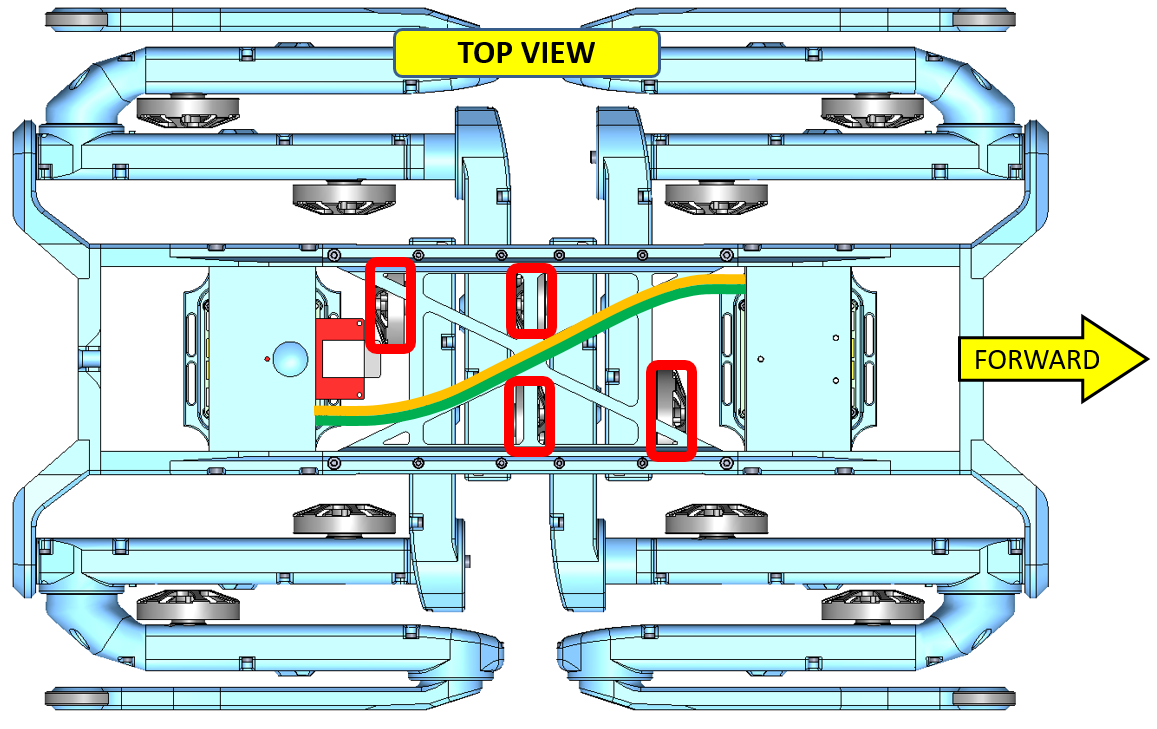
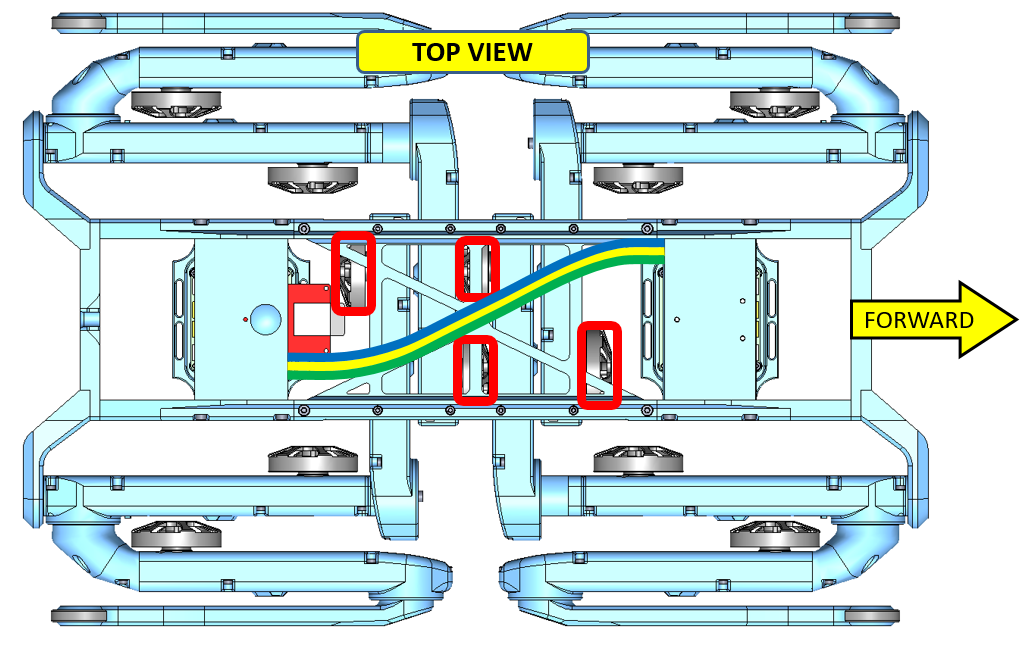
Updating documentation - 12dof robot

diff --git a/mechanics/quadruped_robot_12dof_v1/details/details_electronics_quadruped_12dof.md b/mechanics/quadruped_robot_12dof_v1/details/details_electronics_quadruped_12dof.md
@@ -1,12 +1,11 @@
 # Details Electronics Quadruped Robot 12dof v1
-<img src="../images/electronics_overview_1.jpg" width="500"><br>*12dof robot - electronic component overview - weight 264g*  
+<img src="../images/electronics_overview_1.jpg" width="500"><br>*Electronic component overview 12dof robot- weight 264g*  
 
 ## Description
 * electronics for 12 degree of freedom robot
-* motor driver stack front
-* motor driver stack back
-* master board
-* inertia measurement unit
+* provides current control for 12 brushless motors at 10kHz
+* provides 1kHz control loop to external pc
+* inertia measurement unit data at 1kHz
 
 ### Micro Driver Stack Front
 <img src="../images/micro_driver_stack_front.jpg" width="400"><br>*Micro driver stack front fully wired - weight: 94g*  
@@ -14,7 +13,7 @@
 | Description | Quantity | Wire Length | Comments |  
 | --- | --- | --- | --- |   
 |Motor Phase Wires |18|8cm||
-|Power Supply Wires|3|?cm||
+|Power Supply Wires|3|25cm||
 
 ---
 ### Micro Driver Stack Back
@@ -23,8 +22,8 @@
 | Description | Quantity | Wire Length | Comments |  
 | --- | --- | --- | --- |   
 |Motor Phase Wires |18|8cm||
-|Power Supply Wires|3|?cm||
-|Master Board Supply Wire|1|?cm||
+|Power Supply Wires|3|15cm||
+|Master Board Supply Wire|1|12cm||
 
 ---
 ### Master Board
@@ -38,7 +37,7 @@
 |SPI wires micro driver stack back|3|14cm|3-AA / 4-HL / 5-HR|
 
 ---
-### Interita Measurement Unit
+### Inerita Measurement Unit
 <img src="../images/imu.jpg" width="400"><br>*IMU with wire and mounting plate - weight: 30g*  
 
 | Description | Quantity | Wire Length | Comments |  
@@ -46,7 +45,6 @@
 |IMU wire |1|35cm||
 
 ---
-
 ### Hip AA Actuator Modules
 <img src="../images/hip_aa_actuator_modules.jpg" width="400"><br>*Hip AA Actuator Modules - weight: 149g each*  
 
@@ -90,22 +88,34 @@
 |Hind Left Knee Encoder Wire |1|20cm|HLK|
 
 ## Wire Routing
-
-<img src="wire_routing_bottom.jpg" width="500"><br>*Bottom view - all the motor module wires are routet on the bottom of the robot. Details below.*
+<img src="wire_routing_bottom.jpg" width="500"><br>*Bottom view - all the actuator module wires are routet on the bottom of the robot. Details below.*
 
 <img src="wire_routing_top.jpg" width="500"><br>*Top view - the power, imu and spi wires are routed on the top of the robot. Details below*
 
 ### Wire Routing Hip AA Modules
-<img src="wire_routing_hip_aa.png" width="500"><br>*Keep the wires away from the motor rotors.<br> The rotors are marked with red boxes in the picture above.*  
+<img src="wire_routing_hip_aa.png" width="500"><br>*Each line represents 3 motor phase wires and the 5 pole encoder wire.<br> Keep the wires away from the motor rotors (red boxes in the picture above).*
 
 ### Wire Routing Hip FE Modules
-<img src="wire_routing_hip_fe.png" width="500"><br>*Keep the wires away from the motor rotors.<br> The rotors are marked with red boxes in the picture above.*  
+<img src="wire_routing_hip_fe.png" width="500"><br>*Each line represents 3 motor phase wires and the 5 pole encoder wire.<br> Keep the wires away from the motor rotors (red boxes in the picture above).*
 
 ### Wire Routing Upper Leg Modules
-<img src="wire_routing_upper_leg.png" width="500"><br>*Keep the wires away from the motor rotors.<br> The rotors are marked with red boxes in the picture above.*  
+<img src="wire_routing_upper_leg.png" width="500"><br>*Each line represents 3 motor phase wires and the 5 pole encoder wire.<br>Keep the wires away from the motor rotors (red boxes in the picture above).*
 
 ### Wire Routing Power, SPI and IMU
-<img src="wire_routing_power_spi.png" width="500"><br>*Keep the wires away from the motor rotors.<br> The rotors are marked with red boxes in the picture above.*
+<img src="wire_routing_power_spi.png" width="500"><br>*The lines represent 3 spi wires, 3 power wires and the imu wire.<br>Keep the wires away from the motor rotors (red boxes in the picture above).*
+
+### Wire Routing Top
+<img src="../images/quadruped_robot_top_1.jpg" width="500"><br>*Quadruped Robot Top View*
+
+### Wire Routing Bottom
+<img src="../images/quadruped_robot_bottom_1.jpg" width="500"><br>*Quadruped Robot Bottom View*
+
+### Robot Connection Cable
+<img src="../images/connection_wire_1.jpg" width="400"><br>*External wire for power supply and ethernet communication.*
+
+<img src="../images/connection_wire_2.jpg" width="400"><br>*External wire robot side.*
+
+<img src="../images/connection_wire_3.jpg" width="400"><br>*External wire pc and power supply side.*
 
 ## View the biped cad model in your web browser
 <br>

diff --git a/mechanics/quadruped_robot_12dof_v1/README.md b/mechanics/quadruped_robot_12dof_v1/README.md
@@ -8,6 +8,7 @@
 
 ## Description
 * 12dof - 12 degree of freedom robot
+* current control at 10kHz / communication with control pc at 1kHz
 * dimensions: 45cm x 32cm x 6cm
 * weight: 2,5kg
 * consisting of 4 identical leg modules - details here -> [3DOF Leg](../leg_3dof_v1)
@@ -20,10 +21,10 @@
 
 ## Pictures
 <img src="images/solo_12_mechanics_1.jpg" width="400"><br>*12dof quadruped without electronics*<br>  
-<img src="images/solo12_1.jpg" width="400"><br>*12dof quadruped with electronics*<br>  
-<img src="images/solo12_2.jpg" width="400"><br>*12dof quadruped top view*<br>
-<img src="images/solo12_4.jpg" width="400"><br>*12dof quadruped front view*<br>  
-<img src="images/solo12_3.jpg" width="400"><br>*12dof quadruped - legs folded for transport*<br>  
+<img src="images/quadruped_robot_iso_1.jpg" width="400"><br>*12dof quadruped with electronics and vicon top plate*<br>  
+<img src="images/quadruped_robot_top_1.jpg" width="400"><br>*12dof quadruped top view*<br>
+<img src="images/quadruped_robot_front_1.jpg" width="400"><br>*12dof quadruped front view*<br>  
+<img src="images/quadruped_robot_folded_1.jpg" width="400"><br>*12dof quadruped - legs folded for transport*<br>  
 
 ## Electronics
 ### Master Board
